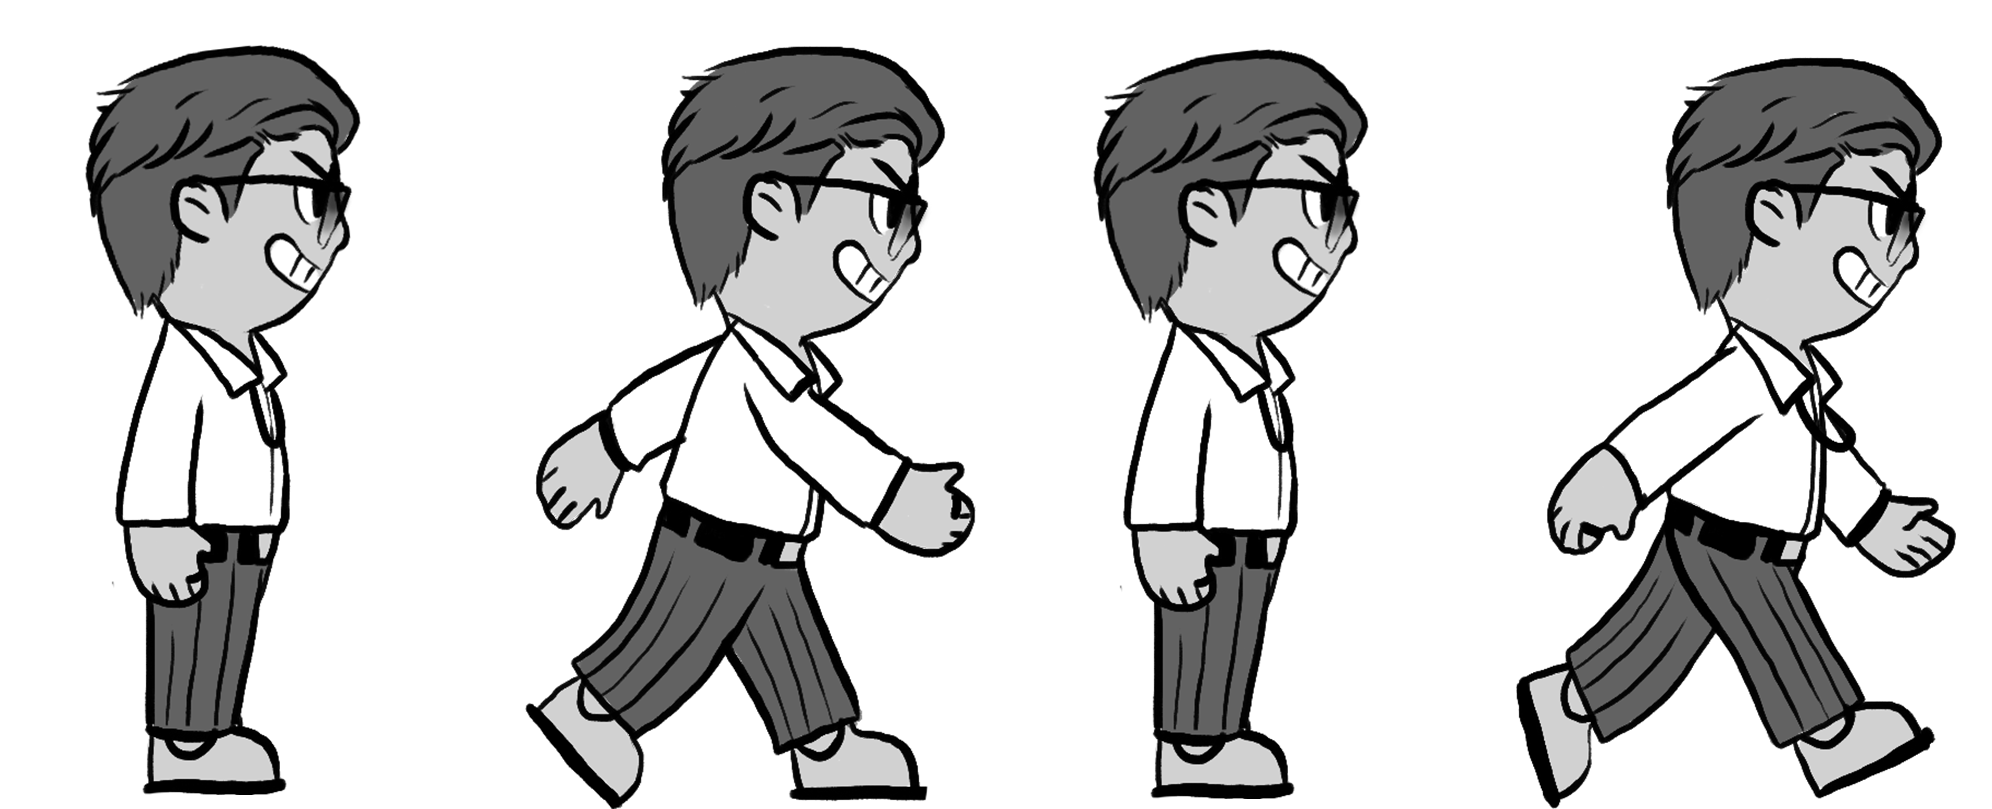
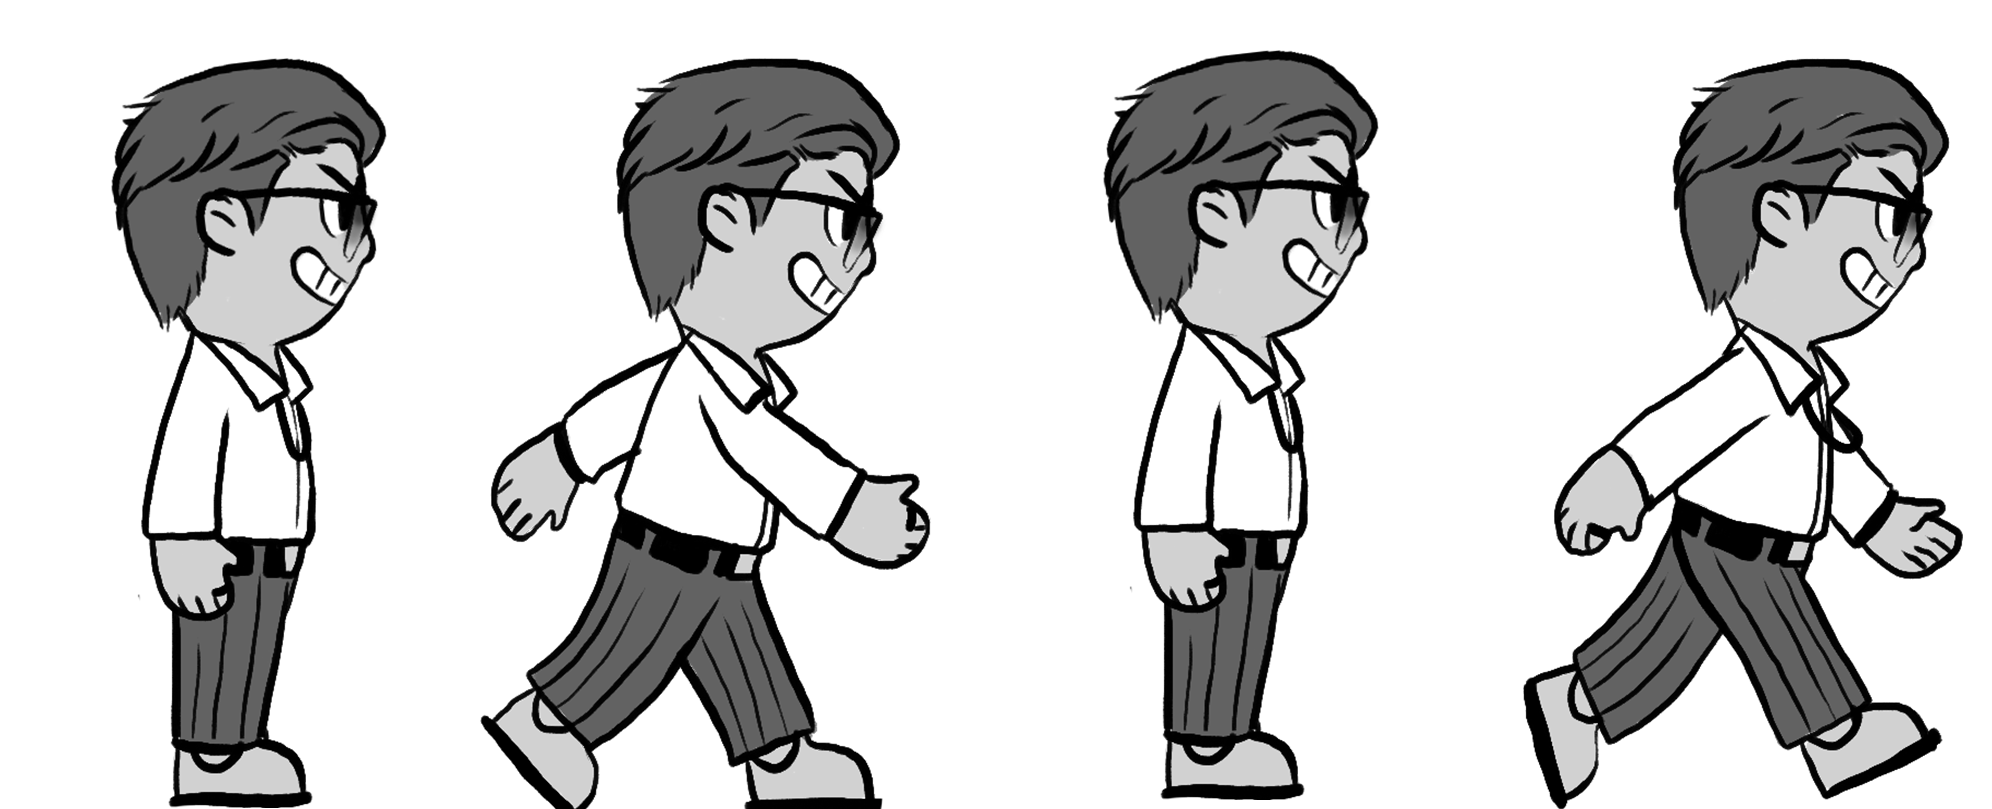
ทำคนจนเดิน

diff --git a/index.html b/index.html
@@ -442,6 +442,65 @@
                 transform: perspective(500px) translate3d(0, 0, 0);
             }
         }
+.sprite {
+  width: 460px;
+  height: 800px;
+  margin-top: 40px;
+}
+
+.right {
+  background-image: url(img/pSR.png);
+}
+
+.left {
+  background-image: url(img/pSL.png);
+}
+
+.walk-right {
+  background-image: url(img/p1.png);
+  -webkit-animation: walk .9s steps(4) infinite;
+  -moz-animation: walk .9s steps(4) infinite;
+  -ms-animation: walk .9s steps(4) infinite;
+  -o-animation: walk .9s steps(4) infinite;
+  animation: walk .9s steps(4) infinite;
+}
+
+.walk-left {
+  background-image: url(img/pl.png);
+  -webkit-animation: walk .9s steps(4) infinite;
+  -moz-animation: walk .9s steps(4) infinite;
+  -ms-animation: walk .9s steps(4) infinite;
+  -o-animation: walk .9s steps(4) infinite;
+  animation: walk .9s steps(4) infinite;
+}
+
+@-webkit-keyframes walk {
+  from { background-position: 0px; }
+  to { background-position: -1944px; }
+}
+@-moz-keyframes walk {
+  from { background-position: 0px; }
+  to { background-position: -1944px; }
+}
+@-ms-keyframes walk {
+  from { background-position: 0px; }
+  to { background-position: -1944px; }
+}
+@-o-keyframes walk {
+  from { background-position: 0px; }
+  to { background-position: -1944px; }
+}
+
+@-keyframes walk {
+  from { background-position: 0px; }
+  to { background-position: -1944px; }
+}
+    @keyframes caret {
+      50% {
+        border-color: transparent;
+      }
+    }
+
   </style>
 </head>
 
@@ -548,6 +607,7 @@
                 ทางไปทำงาน ไปเรียน ซึ่งทำให้เกิดการกุระจุกตัวในช่วงเวลาที่จำกัด ทำให้เป็นไปได้ยาก
                 ที่จะสามารถบริหารจัดการปริมาณของรถขนส่งสาธารณะได้เพียงพอกับ
                 ความต้องการ ขณะที่ในหลายประเทศวางแผนให้มีการกระจายช่วงเวลาพีคเพื่อรองรับการเดินทาง</p>
+           <div style="transform: scale(0.25);bottom: -30%; position: absolute"> <div class="sprite right"></div> </div>
           </div>
             <a href="#four" style="z-index: 5;position: relative; right: -75%; ">
               <button class="custom-btn btn-5"><span>Continue</span></button>
@@ -575,7 +635,9 @@
                 โรงพยาบาลของกระทรวงสรารณสุข 896 แห่ง จึงเป็นส่วนที่รับภาระหนักที่สุด สภาพ
                 คนไข้ที่ลั้นโรงพยาบาลรัฐ
                 ทำให้บุคลากรไม่สามารถดูแลคุณภาพบริการได้เท่าที่ควร</p>
+          
           </div>
+          
             <a href="#eight" style="z-index: 5;position: relative; right: -75%; ">
               <button class="custom-btn btn-5"><span>Continue</span></button>
             </a>
@@ -919,6 +981,81 @@ $('#coin').on('click', function(){
     function myFunction() {
       document.getElementById("ice1").style.opacity = 0;
     }
+
+    (function() {
+
+  var sprite = document.querySelector('.sprite'),
+    key = {left: false, right: false},
+    trans = 0,
+    property = getTransformProperty(sprite);
+    
+   
+  function getTransformProperty(element) {
+      var properties = [
+          'transform',
+          'WebkitTransform',
+          'msTransform',
+          'MozTransform',
+          'OTransform'
+      ];
+      var p;
+      while (p = properties.shift()) {
+          if (typeof element.style[p] != 'undefined') {
+              return p;
+          }
+      }
+      return false;
+  }
+
+  function translate() {
+    sprite.style[property] = 'translateX(' + trans + 'px)';
+  
+  }
+
+  function walk(e) {
+    var keyCode = e.keyCode;
+    if (keyCode === 39) {
+      key.right = true;
+    } else if (keyCode === 37) {
+      key.left = true;
+    }
+    if (key.right === true) {
+      trans += 20;
+      translate();
+      sprite.classList.remove('left');
+      sprite.classList.add('right');
+      sprite.classList.add('walk-right');
+     
+    } else if (key.left === true) {
+      trans -= 20;
+      translate();
+      sprite.classList.remove('right');
+      sprite.classList.add('left');
+      sprite.classList.add('walk-left');
+     
+    }
+  }
+
+  function stop(e) {
+    var keyCode = e.keyCode;
+    if (keyCode === 39) {
+      key.right = false;
+    } else if (keyCode === 37) {
+      key.left = false;
+    }
+    if (key.right === false) {
+      sprite.classList.remove('walk-right');
+    
+    } if (key.left === false) {
+      sprite.classList.remove('walk-left');
+
+    }
+  }
+
+  document.addEventListener('keydown', walk, false);
+  document.addEventListener('keyup', stop, false);
+
+})();
 
   </script>
 </body>
